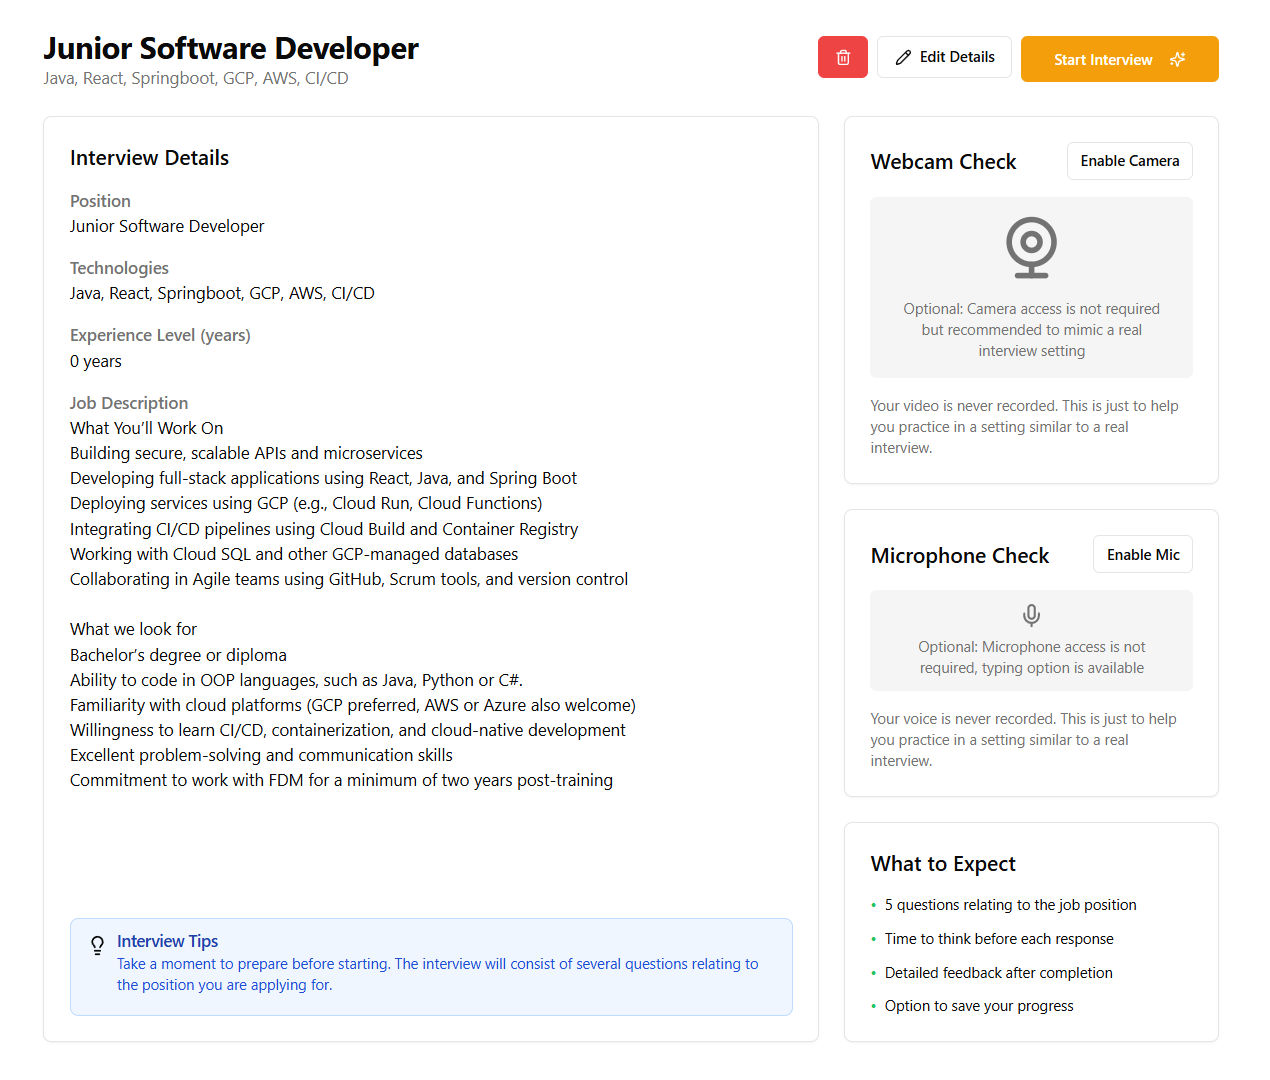
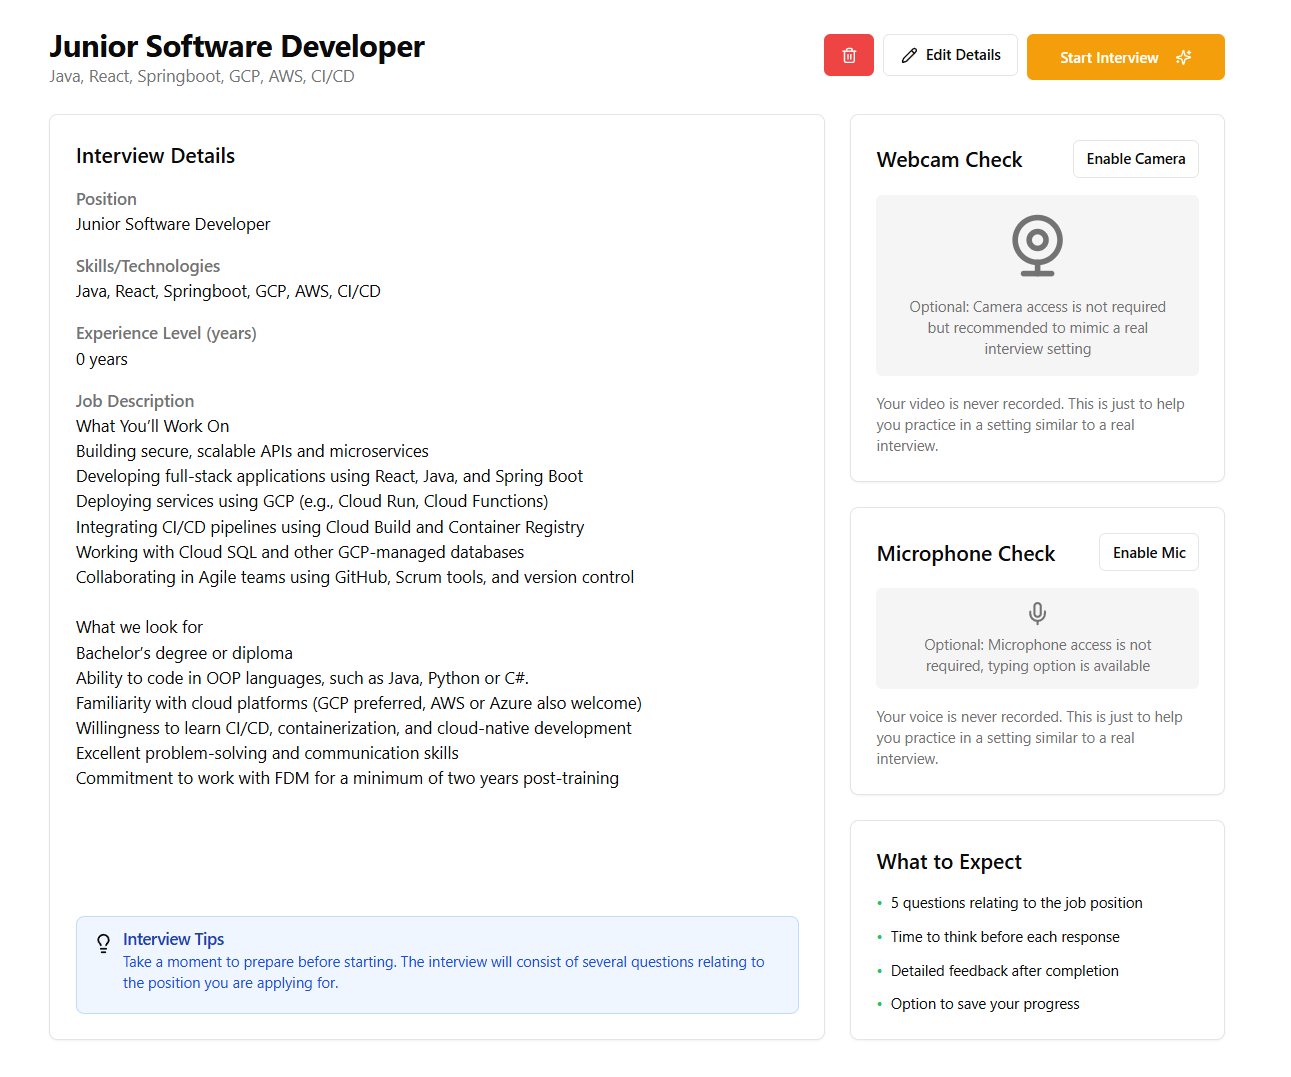
improve evaluation page UI and overall readability

diff --git a/src/routes/evaluation-pg.tsx b/src/routes/evaluation-pg.tsx
@@ -29,7 +29,7 @@ export const EvaluationPg = () => {
   const [interview, setInterview] = useState<Interview | null>(null);
   const [isLoading, setIsLoading] = useState(false);
   const [evaluations, setEvaluations] = useState<UserAnswer[]>([]);
-  const [activeEvaluate, setActiveEvaluate] = useState("");
+  const [expandedItems, setExpandedItems] = useState<string[]>([]);
   const { userId } = useAuth();
   const navigate = useNavigate();
 
@@ -164,7 +164,12 @@ export const EvaluationPg = () => {
         </div>
 
         {evaluations && (
-          <Accordion type="multiple" className="space-y-4">
+          <Accordion 
+            type="multiple" 
+            className="space-y-4"
+            value={expandedItems}
+            onValueChange={setExpandedItems}
+          >
             {evaluations.map((evaluationItem, index) => {
               const rating = evaluationItem.rating || 0;
               const ratingColor = rating >= 8 ? 'text-green-600' : rating >= 5 ? 'text-yellow-600' : 'text-red-600';
@@ -177,10 +182,9 @@ export const EvaluationPg = () => {
                   className="border rounded-xl overflow-hidden transition-all hover:shadow-md"
                 >
                   <AccordionTrigger
-                    onClick={() => setActiveEvaluate(activeEvaluate === evaluationItem.id ? '' : evaluationItem.id)}
                     className={cn(
                       "px-6 py-4 hover:no-underline hover:bg-muted/30 transition-colors text-left",
-                      activeEvaluate === evaluationItem.id && "bg-muted/20"
+                      expandedItems.includes(evaluationItem.id) && "bg-muted/20"
                     )}
                   >
                     <div className="flex gap-4 w-full">
@@ -191,7 +195,7 @@ export const EvaluationPg = () => {
                         <div className="font-medium">Question {index + 1}</div>
                         <div className={cn(
                           "text-sm text-muted-foreground mt-0.5",
-                          activeEvaluate === evaluationItem.id ? "whitespace-pre-wrap" : "line-clamp-1"
+                          expandedItems.includes(evaluationItem.id) ? "whitespace-pre-wrap" : "line-clamp-1"
                         )}>
                           {evaluationItem.question}
                         </div>
@@ -336,17 +340,14 @@ export const EvaluationPg = () => {
                         {evaluationItem.evaluation ? (
                           <div className="prose prose-sm max-w-none text-foreground">
                             {evaluationItem.evaluation
-                              ?.replace(/^•\s*/gm, '')
+                              .replace(/^[•-]\s*/gm, '')  // Remove bullet points and dashes
                               .trim()
                               .split('\n')
                               .filter(para => para.trim())
                               .map((paragraph, i) => (
-                                <div key={i} className="mb-3 last:mb-0">
-                                  <p className="mb-2">
-                                    {paragraph.trim().replace(/([.!?])([A-Z])/g, '$1 $2')}
-                                  </p>
-                                  {i < evaluationItem.evaluation.split('\n').length - 2 && <div className="h-px bg-border my-3"></div>}
-                                </div>
+                                <p key={i} className="mb-4 last:mb-0">
+                                  {paragraph.trim()}
+                                </p>
                               ))}
                           </div>
                         ) : (

diff --git a/src/components/expandable-description.tsx b/src/components/expandable-description.tsx
@@ -1,0 +1,80 @@
+import { useState } from "react";
+import { cn } from "@/lib/utils";
+import { ChevronDown, ChevronUp } from "lucide-react";
+
+interface ExpandableDescriptionProps {
+  content: string;
+  maxHeight?: string;
+  className?: string;
+}
+
+export const ExpandableDescription = ({
+  content,
+  maxHeight = "h-[60px]",
+  className = "",
+}: ExpandableDescriptionProps) => {
+  const [isExpanded, setIsExpanded] = useState(false);
+  const [isOverflowing, setIsOverflowing] = useState(false);
+  const [isMounted, setIsMounted] = useState(false);
+
+  const checkOverflow = (element: HTMLDivElement | null) => {
+    if (!element || !content) return;
+    
+    // Use requestAnimationFrame to ensure the check happens after the DOM updates
+    requestAnimationFrame(() => {
+      const isOverflow = element.scrollHeight > element.clientHeight;
+      if (isOverflow !== isOverflowing) {
+        setIsOverflowing(isOverflow);
+      }
+      if (!isMounted) {
+        setIsMounted(true);
+      }
+    });
+  };
+
+  // Show button if:
+  // 1. We've mounted and content is overflowing, OR
+  // 2. The content is currently expanded
+  const showButton = (isMounted && isOverflowing) || isExpanded;
+
+  return (
+    <div className={cn("relative w-full", className)}>
+      <div
+        ref={checkOverflow}
+        className={cn(
+          "text-sm text-gray-600 dark:text-gray-300 transition-all duration-200 overflow-hidden",
+          isExpanded ? "max-h-[1000px]" : maxHeight,
+          !isMounted && "invisible" // Hide content until we've checked for overflow
+        )}
+      >
+        {content}
+      </div>
+      
+      {showButton && (
+        <button
+          type="button"
+          onClick={(e) => {
+            e.stopPropagation();
+            setIsExpanded(!isExpanded);
+          }}
+          className={cn(
+            "mt-1 flex items-center text-xs font-medium text-blue-600 dark:text-blue-400 hover:text-blue-700 dark:hover:text-blue-300 transition-colors",
+            "focus:outline-none focus:ring-2 focus:ring-blue-500 focus:ring-offset-2 rounded"
+          )}
+        >
+          {isExpanded ? (
+            <>
+              <span>Show Less</span>
+              <ChevronUp className="ml-1 h-3.5 w-3.5" />
+            </>
+          ) : (
+            <>
+              <span>Read More</span>
+              <ChevronDown className="ml-1 h-3.5 w-3.5" />
+            </>
+          )}
+        </button>
+      )}
+    </div>
+  );
+};

diff --git a/src/components/interview-card.tsx b/src/components/interview-card.tsx
@@ -6,6 +6,7 @@ import { Badge } from "@/components/ui/badge"
 import { cn } from "@/lib/utils"
 import { TooltipButton } from "./tooltip-button"
 import { MessageSquareMore, Sparkles, SquarePen, Clock, Trash2 } from "lucide-react"
+import { ExpandableDescription } from "./expandable-description"
 
 interface InterviewCardProps {
     interview: Interview
@@ -18,8 +19,22 @@ export const InterviewCard = ({ interview, onMockPage = false, onDelete }: Inter
   
   return (
     <motion.div
-      whileHover={{ scale: 1.02 }}
-      whileTap={{ scale: 0.98 }}
+      whileHover={{ 
+        scale: 1.008,
+        transition: { 
+          type: "spring",
+          stiffness: 300,
+          damping: 15
+        }
+      }}
+      whileTap={{ 
+        scale: 0.995,
+        transition: { 
+          type: "spring",
+          stiffness: 300,
+          damping: 15
+        }
+      }}
       className="h-full"
     >
       <Card className="h-full flex flex-col rounded-xl overflow-hidden border border-gray-100 dark:border-slate-700 bg-white dark:bg-slate-800 shadow-md hover:shadow-lg transition-all duration-300">
@@ -29,10 +44,11 @@ export const InterviewCard = ({ interview, onMockPage = false, onDelete }: Inter
               {interview?.position}
             </CardTitle>
           </div>
-          <div className="h-[60px] overflow-hidden">
-            <p className="text-gray-600 dark:text-gray-300 text-sm line-clamp-3">
-              {interview?.description}
-            </p>
+          <div className="min-h-[60px]">
+            <ExpandableDescription 
+              content={interview?.description || ''} 
+              className="text-gray-600 dark:text-gray-300"
+            />
           </div>
         </CardHeader>
         

diff --git a/src/components/mock-interview-form.tsx b/src/components/mock-interview-form.tsx
@@ -196,7 +196,7 @@ export const MockInterviewForm = ({initialData} : MockInterviewFormProps) => {
     <div className="w-full space-y-6">
       <BreadCrumbCustom
         breadCrumbPage={breadCrumbPage}
-        breadCrumbItems={[{ label: "Mock Interviews", link: "/practice" }]}
+        breadCrumbItems={[{ label: "Practice", link: "/practice" }]}
       />
       
       <div className="flex items-center justify-between">
@@ -306,16 +306,16 @@ export const MockInterviewForm = ({initialData} : MockInterviewFormProps) => {
             name="techStack"
             render={({ field }) => (
               <FormItem className="space-y-2">
-                <FormLabel>Technologies *</FormLabel>
+                <FormLabel>Skills/Technologies *</FormLabel>
                 <FormControl>
                   <Input
-                    placeholder="e.g., React, TypeScript, Node.js"
+                    placeholder="e.g., React, TypeScript, Node.js, Problem Solving"
                     className="h-11"
                     {...field}
                   />
                 </FormControl>
                 <p className="text-sm text-muted-foreground">
-                  List the main technologies relevant to this position
+                  List the main skills and technologies relevant to this position
                 </p>
                 <FormMessage />
               </FormItem>

diff --git a/src/routes/pre-interview-pg.tsx b/src/routes/pre-interview-pg.tsx
@@ -270,7 +270,7 @@ export const PreInterviewPg = () => {
               <Input
                 value={editedInterview.techStack || ''}
                 onChange={(e) => handleInputChange('techStack', e.target.value)}
-                placeholder="Technologies (e.g., React, Node.js, TypeScript)"
+                placeholder="Skills/Technologies (e.g., React, Node.js, TypeScript, Problem Solving)"
                 className="text-muted-foreground border-2 border-gray-300 focus-visible:ring-2 focus-visible:ring-blue-500 focus-visible:ring-offset-2 rounded-md px-3 py-2"
               />
             ) : (
@@ -358,7 +358,7 @@ export const PreInterviewPg = () => {
                     )}
                   </div>
                   <div>
-                    <h3 className="font-medium text-muted-foreground">Technologies</h3>
+                    <h3 className="font-medium text-muted-foreground">Skills/Technologies</h3>
                     {isEditing ? (
                       <Input
                         value={editedInterview.techStack || ''}
